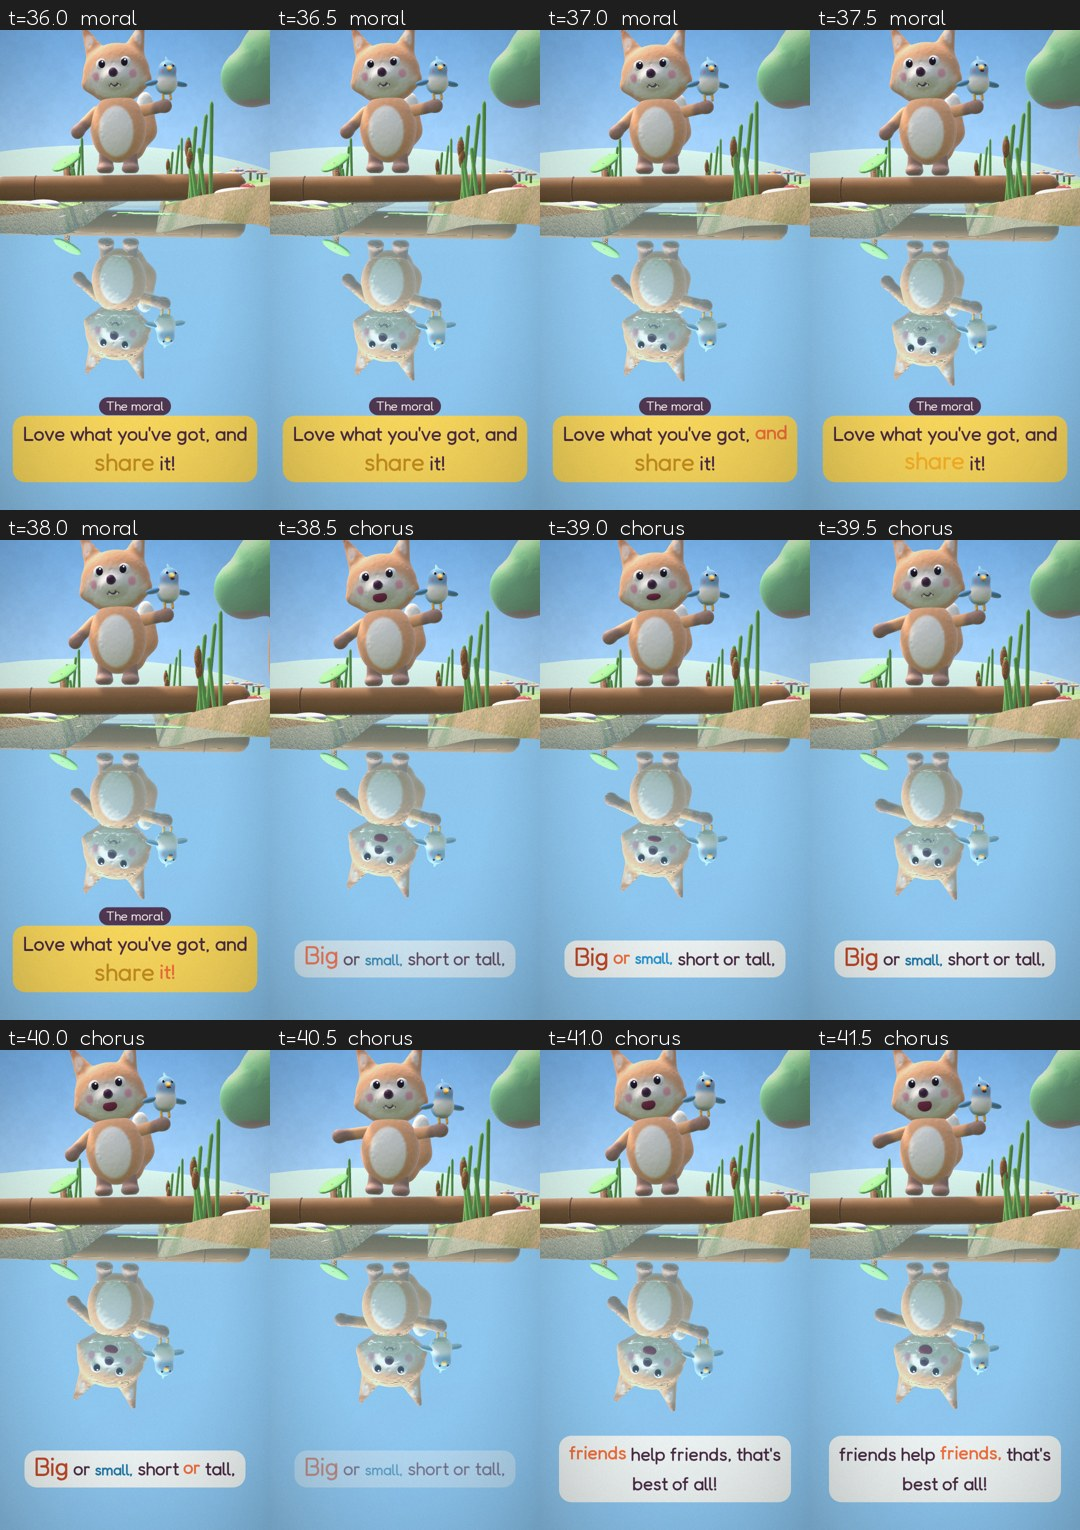
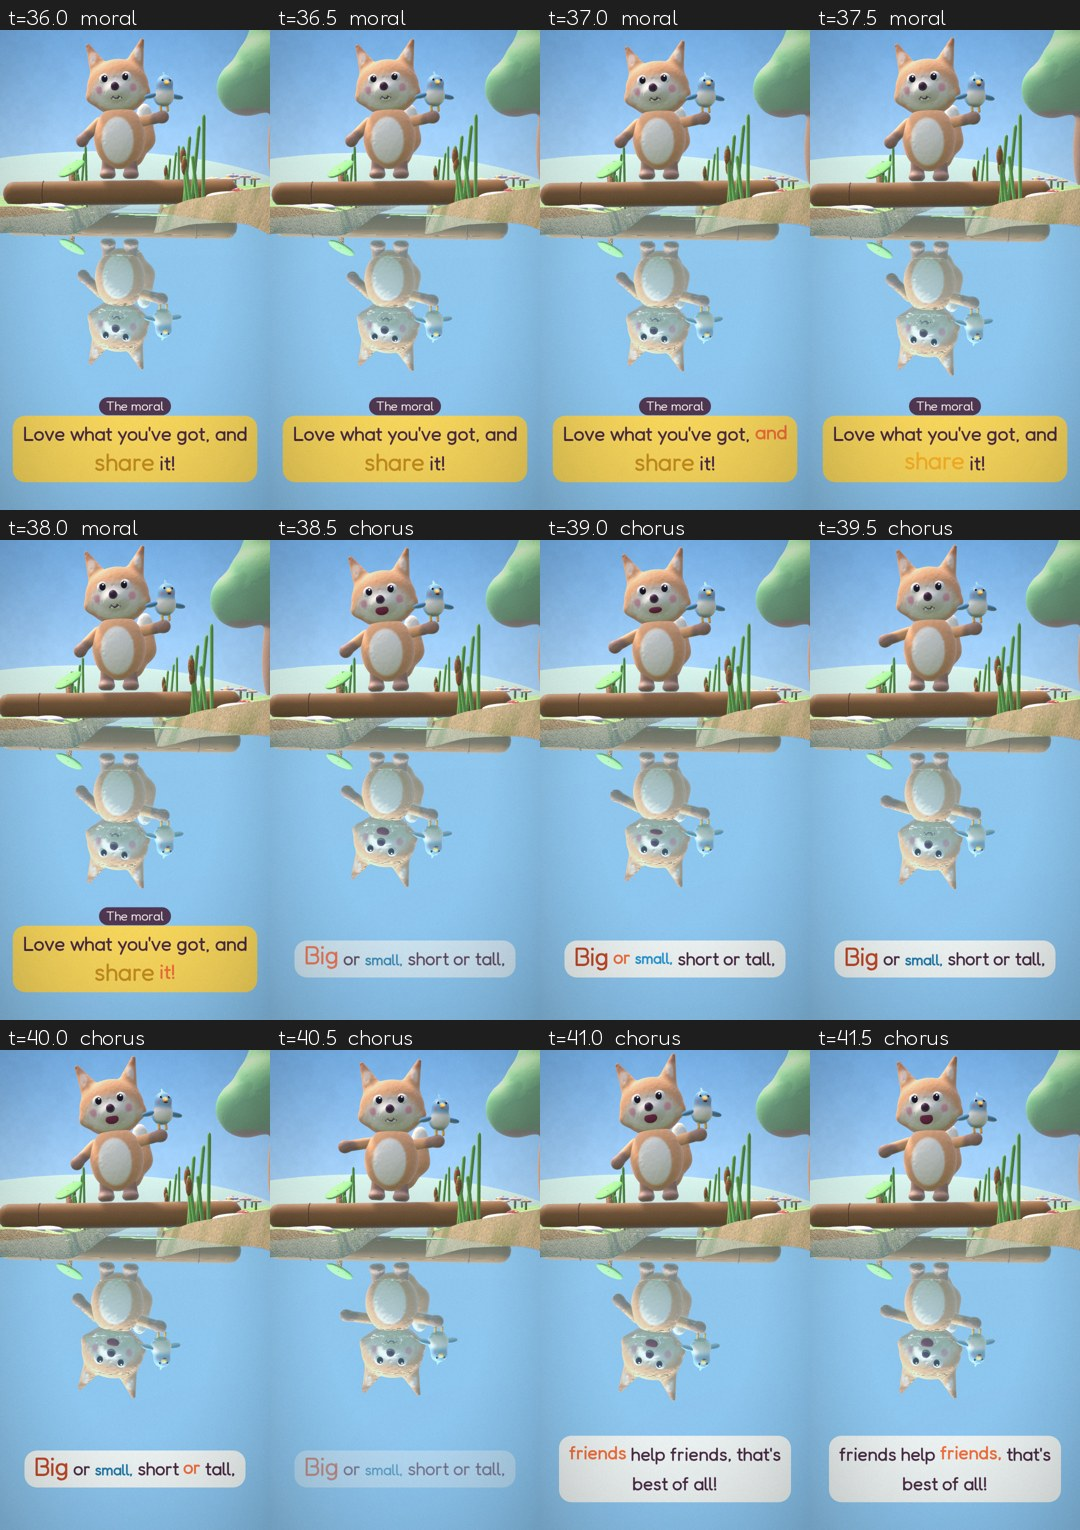
Fable 5: review round 1 fixes on real timing (reflection clear of captions, apple lower, apple drifts out, calmer ripple)
Claude-Session: https://claude.ai/code/session_01NMnnkyLr6YUoA9av9ZupHA

diff --git a/batches/01-fables-friendship/fable-05-the-other-fox/code/render.py b/batches/01-fables-friendship/fable-05-the-other-fox/code/render.py
@@ -27,7 +27,7 @@ PIP_SPOT = np.array([LX, log_top(PIP_Z), PIP_Z]) + UP
 BS = 0.12                                                  # berry scale (mesh y -0.5..0.58)
 BERRY_LOG = np.array([LX, log_top(-6.6) + 0.5 * BS - 0.004, -6.6])
 APPLE_S = 0.44; APPLE_TOP = 0.61 * APPLE_S; APPLE_BOT = 0.41 * APPLE_S
-HOLD1 = [0.3, 1.25, 0.62]                                  # two-paw hold: both paws under the apple (coordinator pose)
+HOLD1 = [0.3, 0.98, 0.62]                                  # two-paw hold: both paws under the apple (coordinator pose)
 PAW_OUT = [0.85, 0.95]                                     # berry paw: out to the side, towards Pip
 def half_w(x):
     """the stream's half width: 0.7 at the bridge, opening into a pool downstream (towards the low camera)"""
@@ -204,8 +204,9 @@ def apple_state(t, mats):
         return ("fall", p, t * 3)
     if t >= SH["wobble"][1]: return None
     d = t - T.SPLASH
-    dx = 1.5 * max(0.0, d - 0.4) + 0.1 * min(d, 0.4)         # bobs, then drifts away down the stream (towards the camera)
-    z = land[2] + (TZ - land[2]) * min(1.0, d / 2.5)
+    dx = 3.8 * max(0.0, d - 0.4) + 0.1 * min(d, 0.4)         # bobs, then drifts away down the stream (towards the camera)
+    zt = TZ + 1.4 * (1 if land[2] < TZ else -1)             # and out to the side, so it leaves the frame
+    z = land[2] + (zt - land[2]) * ease(clampu(d, 0.8, 3.0))
     y = YW + 0.02 - 0.09 * math.exp(-d * 4) * math.cos(d * 12) + 0.015 * math.sin(d * 4)
     return ("float", np.array([land[0] + dx, y, z]), T.SPLASH * 3 + 0.8 * d)
 
@@ -326,32 +327,32 @@ def berry_draws(t, pip, arms):
 def camera(t):
     i, name, u, lt = T.shot_at(t); e = ease(u)
     if name == "hook_mirror":                                   # low, down the stream: the fox and the other fox
-        return fit_cam(np.array([LX, -0.7, TZ - 0.1]), lerp(94, 91, e), 1.5, 1.3, lerp(3.45, 3.25, e), lift=0.0)
+        return fit_cam(np.array([LX, -0.7, TZ - 0.1]), lerp(94, 91, e), 1.5, 1.3, lerp(3.9, 3.7, e), lift=0.0)
     if name == "title_wide":
         return fit_cam(np.array([LX + 0.4, 0.7 if not WIDE else 1.45, TZ - 0.2]), 38, 20, 3.0, 2.7 if not WIDE else 2.7, lift=0.0)
     if name == "proud":                                         # medium, eye level, three-quarter
         return fit_cam(np.array([LX + 0.1, 1.45 if WIDE else 1.25, TZ - 0.3]), lerp(62, 70, e), 5, 1.1, 1.75 if WIDE else 1.35)
     if name == "bigger":                                        # down at the water: real apple above, bigger water apple below
-        return fit_cam(np.array([LX + 0.4, lerp(-0.1, -0.3, e), TZ + 0.15]), lerp(87, 91, e), 4, 1.25, lerp(3.4, 3.0, e), lift=0.0)
+        return fit_cam(np.array([LX + 0.4, lerp(-0.1, -0.3, e), TZ + 0.15]), lerp(87, 91, e), 4, 1.25, lerp(3.9, 3.5, e), lift=0.0)
     if name == "silly_face":                                    # close front
         return fit_cam(np.array([LX + 0.3, 1.6, TZ]), 96, 10, 0.75, 0.85)
     if name == "copycat":
-        return fit_cam(np.array([LX, -0.7, TZ - 0.1]), 92, 1.5, 1.25, 3.35, lift=0.0)
+        return fit_cam(np.array([LX, -0.7, TZ - 0.1]), 92, 1.5, 1.25, 3.8, lift=0.0)
     if name == "reach":                                         # side-on from the near bank
         return fit_cam(np.array([LX + 0.55, 0.55 if not WIDE else 0.8, TZ + 0.1]), 12, 22, 1.5, 1.6 if not WIDE else 2.3)
     if name == "wobble":                                        # low down the stream, wider: ripples and the apple bobbing away
-        return fit_cam(np.array([LX + 0.6, -0.7, TZ]), 90, 3, 1.4, 3.45, lift=0.0)
+        return fit_cam(np.array([LX + 0.6, -0.7, TZ]), 90, 3, 1.4, 3.7, lift=0.0)
     if name == "berry":                                         # macro: the paw, the berry and Pip, from the far-bank side
         pb = paw_berry(fox_mats_p(tumble(SH["berry"][0] + 1.5))[2])
         yw = lerp(76, 84, e); rt = np.array([math.cos(math.radians(yw)), 0, -math.sin(math.radians(yw))])
         return fit_cam(pb + np.array([0.0, 0.2 if not WIDE else 0.45, -0.15]) - 0.22 * rt, yw, 8, 0.8, 0.8 if not WIDE else 1.3, fov=34)
     if name == "share":
-        return fit_cam(np.array([LX + 0.2, 1.3, TZ - 0.4]), lerp(96, 88, e), 6, 1.05, 1.15)
+        return fit_cam(np.array([LX + 0.2, 1.3, TZ - 0.4]), lerp(96, 88, e), 6, 1.25, 1.2)
     if name == "moral":
-        return fit_cam(np.array([LX, lerp(-0.7, -0.6, e), TZ - 0.25]), lerp(93, 91, e), 1.5, 1.25, lerp(3.7, 3.5, e), lift=0.1)
+        return fit_cam(np.array([LX, lerp(-0.7, -0.6, e), TZ - 0.25]), lerp(93, 91, e), 1.5, 1.25, lerp(4.0, 3.8, e), lift=0.1)
     if name == "chorus":
-        return fit_cam(np.array([LX, -0.6, TZ - 0.25]), 92, 1.5, 1.3, 3.5, lift=0.1)
-    return fit_cam(np.array([LX, lerp(-0.6, 0.5, e), TZ - 0.25]), lerp(93, 82, e), lerp(1.5, 24, e), lerp(1.3, 2.4, e), lerp(3.25, 2.7, e), lift=0.0)
+        return fit_cam(np.array([LX, -0.6, TZ - 0.25]), 92, 1.5, 1.3, 3.8, lift=0.1)
+    return fit_cam(np.array([LX, lerp(-0.6, 0.5, e), TZ - 0.25]), lerp(93, 82, e), lerp(1.5, 24, e), lerp(1.3, 2.4, e), lerp(3.7, 2.9, e), lift=0.0)
 
 # ---------------- draws ----------------
 BARK = (0.56, 0.39, 0.25)
@@ -425,7 +426,7 @@ EXTRA = {}
 def wobble_amp(t):
     if t < T.SPLASH: return 0.0
     d = t - T.SPLASH
-    return 0.16 * clampu(t, T.SPLASH, T.SPLASH + 0.25) * math.exp(-d / 1.8)
+    return 0.12 * ease(clampu(t, T.SPLASH, T.SPLASH + 0.8)) * math.exp(-d / 1.8)
 def apple_grow(t):
     if t >= T.SLIP: return 1.0
     return 1.0 + 0.4 * ease(clampu(t, T.BIGGER - 0.3, T.BIGGER + 0.4))
@@ -476,7 +477,7 @@ def build_draws(t):
         Mr = MIR @ Mx
         if amp > 0:
             dep = YW - (Mr[:3, 3][1])
-            ph = 7.0 * dep - 9.0 * t
+            ph = 3.0 * dep - 8.0 * t
             Mr = trans(0, 0, amp * math.sin(ph)) @ trans(0, YW, 0) @ np.array([[1, 0, 0, 0], [0, 1, 0, 0], [0, 0.9 * amp * math.cos(ph), 1, 0], [0, 0, 0, 1.0]]) @ trans(0, -YW, 0) @ Mr
         refl.append((mesh, Mr, u, Mx))
     EXTRA["refl"] = refl

diff --git a/batches/01-fables-friendship/fable-05-the-other-fox/review.md b/batches/01-fables-friendship/fable-05-the-other-fox/review.md
@@ -1,0 +1,12 @@
+# Fable 5 review log
+
+## Round 0 (earlier worker, pre-audio)
+Fixes only: berry in beak, reach, framing, reflection clear of captions, crane tree (commit 1329752).
+
+## Round 1 (reviewer on sheets rendered with the real song timing) - FAIL (4 MED, 6 LOW, 0 HIGH)
+- MED [short] 24.5: reflection forearm floated loose during the ripple wobble. Fix: ripple wavelength lengthened (3.0 per metre of depth, was 7.0), amplitude 0.12 eased in over 0.8 s.
+- MED [short+wide] 0-3.5, 11.5-15.5, 46.5: reflection ears under or touching the caption box. Fix: hook, bigger, copycat, wobble, moral, chorus and crane cameras framed 0.3-0.5 units taller.
+- MED [short+wide] 6.5-20: apple held across the muzzle. Fix: two-paw hold lowered (forward angle 1.25 -> 0.98), so the apple sits on his chest, in the reflection too.
+- MED [short+wide] 24.5-27.5: apple stayed at the water line. Fix: drifts faster down the stream and out to the side, off frame by about 26.5 s.
+- LOW fixed: share shot widened (Pip cut by the edge); moral/chorus ear tips off the top edge.
+- LOW left: reach lean is modest; "Blehhh!" lands at the end of the copycat shot; high-five and star puff are short at 0.5 s sampling; one paw waggles in the silly face.
